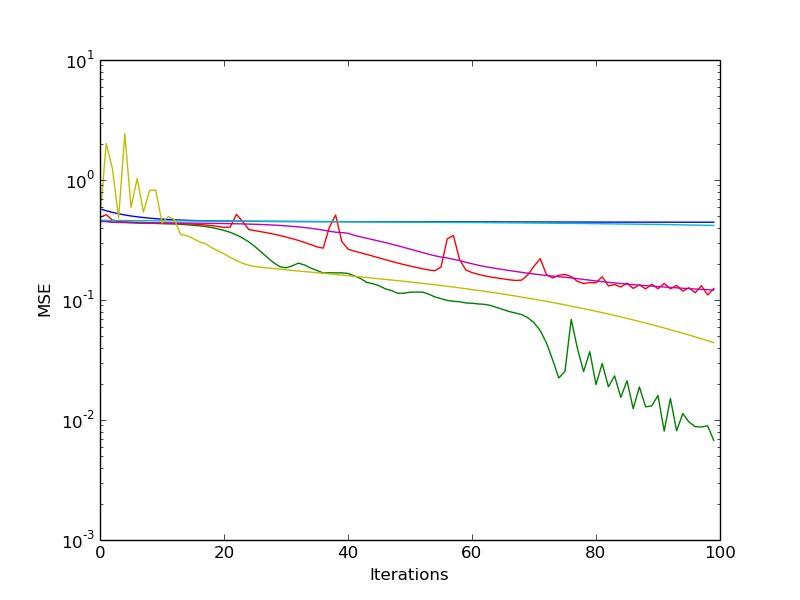
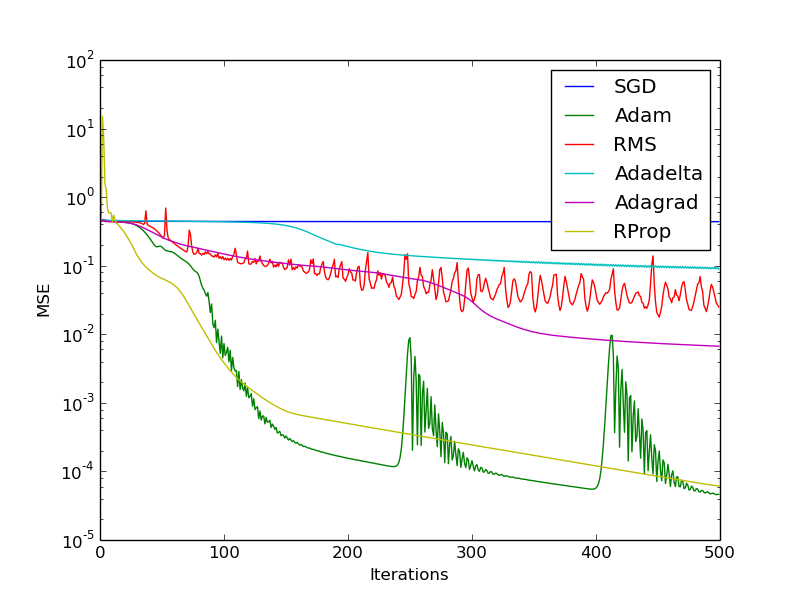
LSTM  optimization data and mini batch for time series works
Former-commit-id: b1870d3a01ee47a668a8a3ad0113acafd95f4e54

diff --git a/RecurrentNetworks.py b/RecurrentNetworks.py
@@ -196,6 +196,10 @@ class LSTMLayer:
         output = actualOutput.reshape((actualOutput.shape[0], actualOutput.shape[2]))
         self.out = output
 
+    def reset(self):
+        self.C.set_value(np.zeros(self.C.shape.eval()))
+        self.h.set_value(np.zeros(self.h.shape.eval()))
+
 class LSTM():
 
     def __init__(self, *dim, **kwargs):
@@ -278,6 +282,19 @@ class LSTM():
             p.set_value(params[n])
 
 
+def miniRecurrentLearning(x, y, batchSize, learn, predict, verbose=False,
+        epochs=1, miniepochs=10):
+    train_error = []
+    if batchSize <= 0: batchSize = x.shape[0]
+    for j in range(epochs):
+        print(batchSize)
+        for batch in range(0, x.shape[0], batchSize):
+            train_error = train_error + miniBatchLearning(x[batch:batch+batchSize],
+                    y[batch:batch+batchSize], -1, learn, verbose=verbose, 
+                    epochs=miniepochs)
+        predict(x[batch:batchSize])
+    return train_error
+
 
 def LSTMTest():
     x = np.linspace(0, 10, 100)
@@ -285,9 +302,6 @@ def LSTMTest():
     x = x.reshape(x.shape[0], 1)
     y = y.reshape(y.shape[0], 1)
     lstm = LSTM(1, 10, 1, verbose=True)
-    lstm.load(open('test.npz', 'rb'))
-    print("loaded lstm")
-    lstm.save(open('test.npz', 'wb'))
     sin_fig, ax = plt.subplots()
     ax.plot(x, y, label="Sine curve")
 
@@ -321,7 +335,7 @@ def LSTMTest():
         print("Compiling", u[1], "function")
         learn = theano.function([lstm.x, target], error, updates=u[0], allow_input_downcast=True)
         start_time = time.perf_counter()
-        train_error = train(learn, epochs=300, verbose=True)
+        train_error = train(learn, epochs=500, verbose=True)
         print("Time taken", u[1], (time.perf_counter() - start_time))
 
         er_dat.plot(np.arange(len(train_error)), train_error, label=u[1])
@@ -330,8 +344,11 @@ def LSTMTest():
     er_dat.set_yscale('log', nonposy='clip')
     er_dat.set_xlabel('Iterations')
     er_dat.set_ylabel('MSE')
+    sin_fig.savefig("lstm_pred.png")
+    er_fig.savefig("lstm_err.png")
+
     er_dat.legend(loc='upper right')
-    sin_fig.legend(loc='upper right')
+    ax.legend(loc='upper right')
 
     sin_fig.savefig("lstm_pred.png")
     er_fig.savefig("lstm_err.png")

diff --git a/MusicLoader.py b/MusicLoader.py
@@ -2,7 +2,9 @@ from DeepLearning import generateRpropUpdates
 import pickle
 import theano
 from DeepLearning import miniBatchLearning
+from DeepLearning import *
 from RecurrentNetworks import LSTM
+from RecurrentNetworks import miniRecurrentLearning
 import numpy as np
 import scipy.io.wavfile as wavUtil
 
@@ -20,21 +22,39 @@ def convertMusicFile(index, inputsize=1000):
 
     data = data[index1:(index2 + 1)]
     data = data.flatten()
-    data.resize(data.shape[0]//100, inputsize)
+    data.resize(data.shape[0]//inputsize, inputsize)
     return data
+
+def generateMusicFile(arr, f):
+    data = arr.flatten().reshape(arr.size/2, 2)
+    wavUtil.write(f, 44100, data)
 
 def testLSTM():
     data = convertMusicFile(0)
     lstm = LSTM(1000, 1000, verbose=True, init_size=0.1, out_type='linear')
-    
-    (rprop, rupdates) = generateRpropUpdates(lstm.params, lstm.error, init_size=0.1, verbose=True)
 
-    learnFunc = theano.function([lstm.x, lstm.y], lstm.error, updates=rupdates)
 
     x = data[:-1]
+    '''
+    print("Writing music file...")
+    generateMusicFile(x, 'test.wav')
+    print("Done!")
+    '''
     y = data[1:]
-    miniBatchLearning(x, y, -1, learnFunc, verbose=True, epochs=10)
-    
+    print(x.shape)
+
+    (rprop, rupdates) = generateRpropUpdates(lstm.params, lstm.error, 
+            init_size=0.1, verbose=True)
+    (adamstorage, adam) = generateAdam(lstm.params, lstm.error, alpha=1,
+            verbose=True)
+
+    learnFunc = theano.function([lstm.x, lstm.y], lstm.error, updates=adam)
+    lstm.reset()
+    train_error = miniRecurrentLearning(x, y, 10, learnFunc, lstm.predict, 
+            verbose=True, miniepochs=10)
+    plt.plot(np.arange(len(train_error)), train_error)
+    plt.show()
+
 
 if __name__ == '__main__':
     testLSTM()
